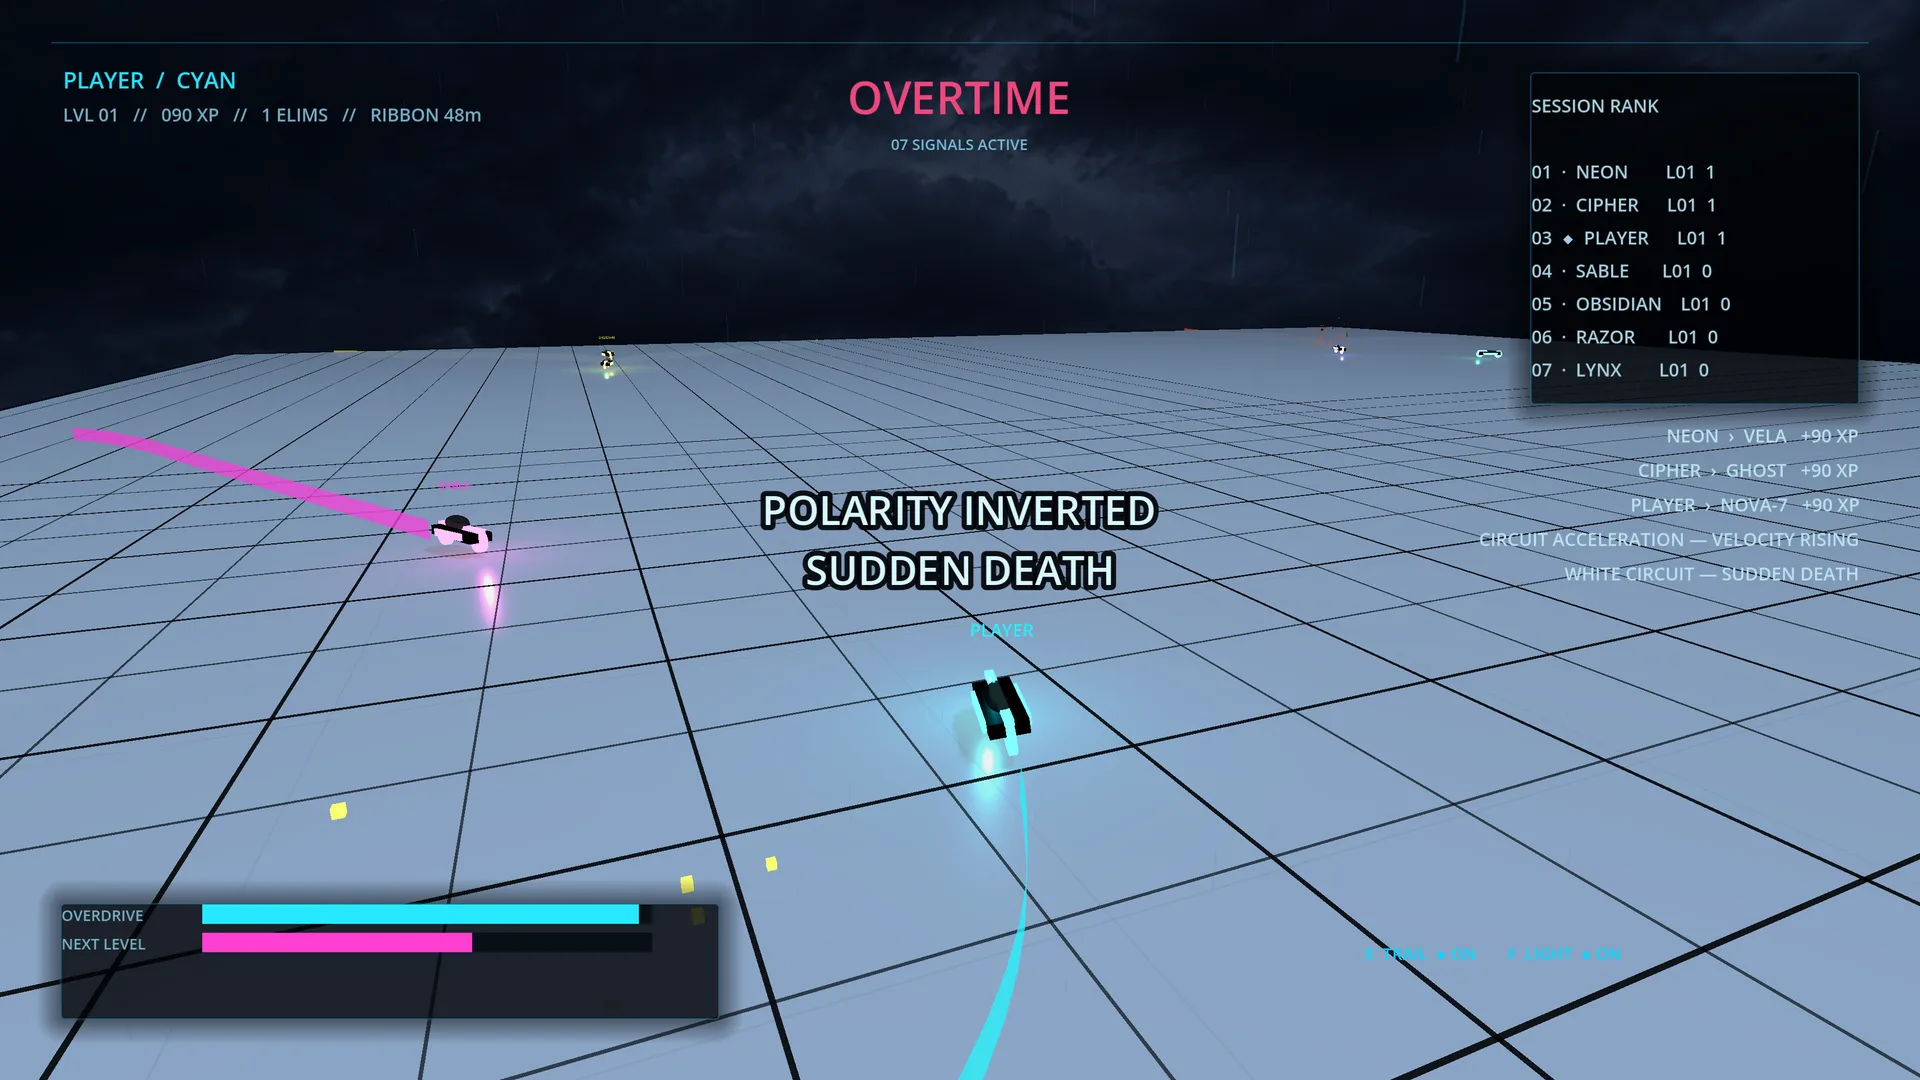
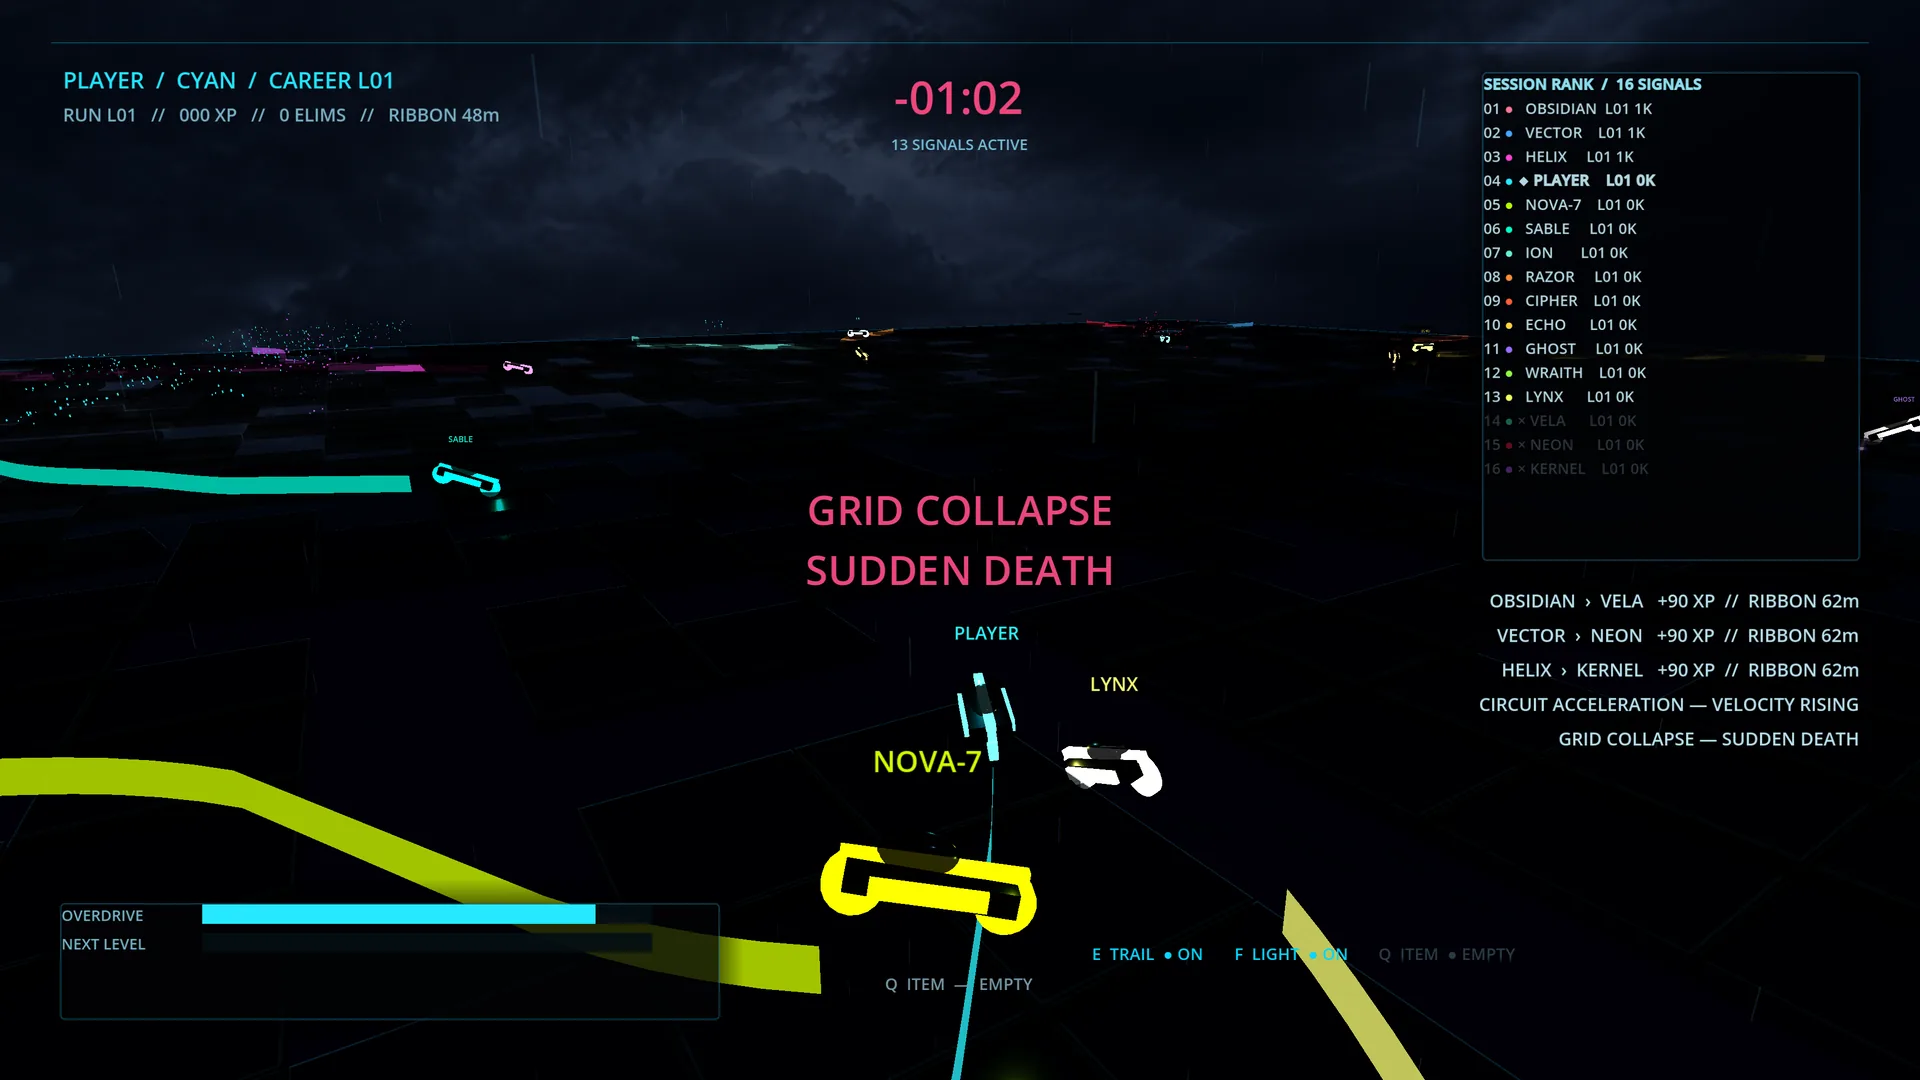
Show Pulse and grid collapse on the landing (#5)

diff --git a/index.html b/index.html
@@ -102,7 +102,7 @@
       <section class="systems section" id="systems" aria-labelledby="systems-title">
         <div class="section-heading reveal">
           <p class="eyebrow">Break the expected line</p>
-          <h2 id="systems-title">Five anomalies.<br />One stored move.</h2>
+          <h2 id="systems-title">Six anomalies.<br />One stored move.</h2>
         </div>
         <p class="section-copy reveal">
           Collect a drop, hold it, and choose the exact moment to deploy it.
@@ -139,6 +139,12 @@
             <h3>Long Ribbon</h3>
             <p>Overcharge your trail and turn open glass into a closing trap.</p>
           </article>
+          <article class="system-card reveal reveal-delay-2">
+            <span class="system-glyph pulse">◎</span>
+            <small>06 // disruption</small>
+            <h3>Pulse</h3>
+            <p>Erase every nearby ribbon segment—including your own—and open a route through the light.</p>
+          </article>
           <article class="system-card system-card-command reveal reveal-delay-2">
             <span class="keycap">Q</span>
             <small>Manual activation</small>
@@ -152,24 +158,24 @@
         <div class="zero-image reveal">
           <img
             src="/images/overtime.webp"
-            alt="The glass arena inverted to white during sudden death"
+            alt="Glass cells disappearing into the void during sudden death"
             width="1920"
             height="1080"
             loading="lazy"
           />
         </div>
         <div class="zero-copy reveal">
-          <p class="eyebrow">Polarity event // 02:00</p>
-          <h2 id="zero-title">When the grid reaches zero.</h2>
+          <p class="eyebrow">Collapse protocol // -00:00</p>
+          <h2 id="zero-title">When the grid falls away.</h2>
           <p>
-            The black glass burns white. Speed climbs. The storm stays dark.
-            There is no score victory and no timeout escape—sudden death ends
-            only when one signal remains.
+            At 02:00 the clock turns negative. Glass cells rise and digitize
+            faster every second until no floor remains. The last active signal—or
+            the last rider to cross into the void—wins.
           </p>
           <div class="zero-meter" aria-hidden="true">
-            <span>Black grid</span>
+            <span>1,849 cells</span>
             <i></i>
-            <strong>ZERO</strong>
+            <strong>VOID</strong>
           </div>
         </div>
       </section>

diff --git a/src/style.css b/src/style.css
@@ -653,8 +653,18 @@ img {
   color: var(--warning);
 }
 
+.system-glyph.pulse {
+  color: var(--magenta);
+}
+
 .system-card-command {
+  grid-column: 1 / -1;
+  min-height: 14rem;
   background: linear-gradient(135deg, rgba(156, 108, 255, 0.08), transparent 70%);
+}
+
+.system-card-command h3 {
+  margin-top: 2.6rem;
 }
 
 .keycap {
@@ -681,7 +691,7 @@ img {
 .zero-image {
   position: relative;
   padding: 0.55rem;
-  background: #d9e1df;
+  background: #050b11;
   box-shadow: 0 2rem 8rem rgba(0, 0, 0, 0.48);
   transform: rotate(-1.2deg);
 }
@@ -697,7 +707,7 @@ img {
 .zero-image img {
   aspect-ratio: 16 / 9;
   object-fit: cover;
-  filter: saturate(0.7) contrast(1.08);
+  filter: saturate(0.92) contrast(1.06);
 }
 
 .zero-copy h2 {
@@ -724,14 +734,14 @@ img {
 
 .zero-meter i {
   height: 1px;
-  background: linear-gradient(90deg, #071018, #e9ffff);
-  box-shadow: 0 0 0.8rem rgba(233, 255, 255, 0.45);
+  background: linear-gradient(90deg, #071018, var(--magenta));
+  box-shadow: 0 0 0.8rem rgba(255, 63, 210, 0.38);
 }
 
 .zero-meter strong {
-  color: white;
+  color: var(--magenta);
   font-size: 0.95rem;
-  text-shadow: 0 0 1rem white;
+  text-shadow: 0 0 1rem rgba(255, 63, 210, 0.72);
 }
 
 .gallery {
